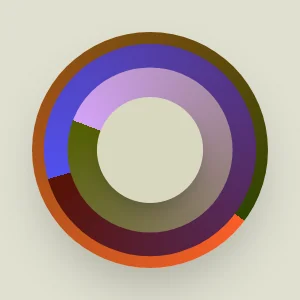
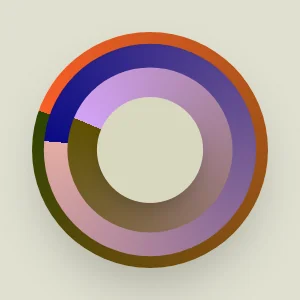
x

Changed region(s): [[0.09, 0.09, 0.9, 0.9], [0.3, 0.42, 0.33, 0.45]]

diff --git a/src/pages/2026/26-07/26-07-19/Clock.tsx b/src/pages/2026/26-07/26-07-19/Clock.tsx
@@ -47,7 +47,7 @@ const SweepClock = () => {
         <div
           className="absolute inset-0 rounded-full scale-[0.90] shadow-inner"
           style={{
-            background: `conic-gradient(from ${minuteDegrees}deg, #5151EE 0deg, #571204 360deg, transparent 4deg)`,
+            background: `conic-gradient(from ${minuteDegrees}deg, #0B0B84 0deg, #E3ADA3 360deg, transparent 4deg)`,
           }}
         />
 
@@ -55,7 +55,7 @@ const SweepClock = () => {
         <div
           className="absolute inset-0 rounded-full scale-[0.70]"
           style={{
-            background: `conic-gradient(from ${hourDegrees}deg, #D3A2F6 0deg,  #535E01  360deg, transparent 6deg)`,
+            background: `conic-gradient(from ${hourDegrees}deg, #D3A2F6 0deg,  #5E5001  360deg, transparent 6deg)`,
           }}
         />
 
